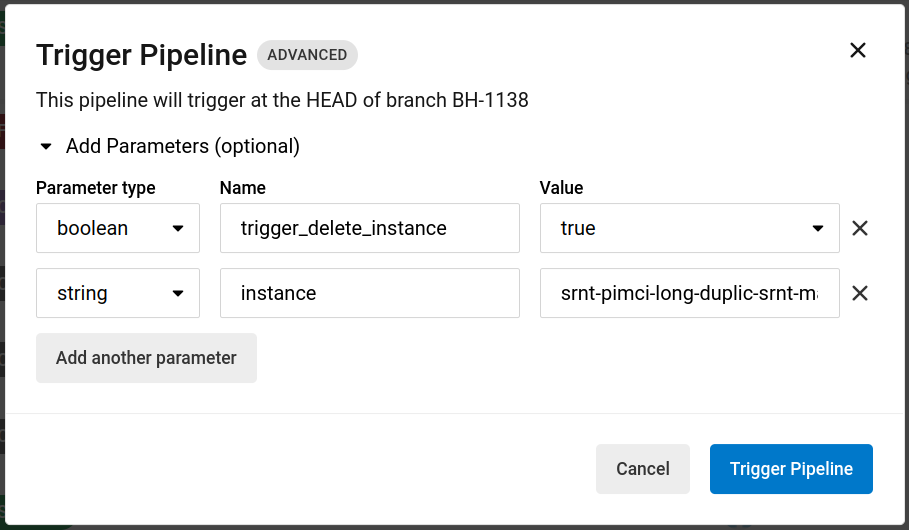
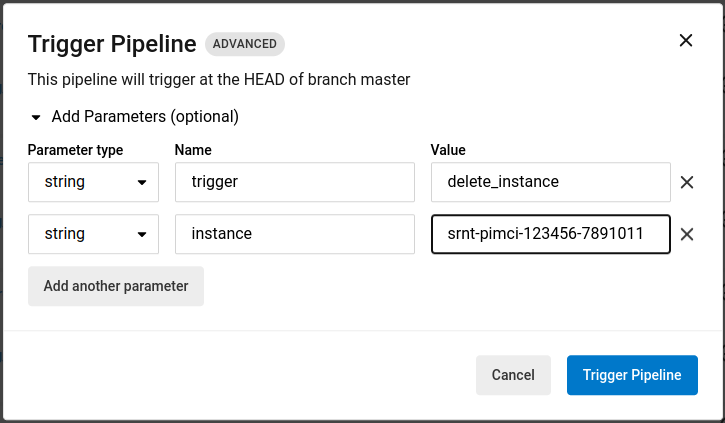
SDO-184: cleanup triggers in circleci (#14463)
* SDO-184: cleanup circleci triggers

* Update README

diff --git a/deployments/README.md b/deployments/README.md
@@ -1,12 +1,25 @@
-# Delete instances from dev cluster  
+# Triggers
 
-From [circleci](https://app.circleci.com/pipelines/github/akeneo/pim-enterprise-dev?branch=master), click on 
+## List
+
+| Trigger name                     | Parameters                                   | Description                        |
+|----------------------------------|----------------------------------------------|------------------------------------|
+| delete_instance                  | **instance** (string) : Name of the instance | Delete instance given as parameter |
+| clone_and_upgrade_flex_customers |                                              |                                    |
+| jenkins_ge2ee_mig                |                                              |                                    |
+
+## How to trigger jobs
+
+From [circleci](https://app.circleci.com/pipelines/github/akeneo/pim-enterprise-dev?branch=master), click on
 "Trigger pipeline" button (see screenshot below)
 
 ![Trigger pipeline button](./assets/trigger_pipeline_button.png)
 
-And then set following parameters :
-* (boolean) trigger_delete_instance: true
+Then set following parameter :
+* (string) trigger: \<trigger name\>
+
+And required parameters for selected trigger.
+E.g. for delete_instance which requires an instance name
 * (string) instance: \<your full instance name\>
 
 
